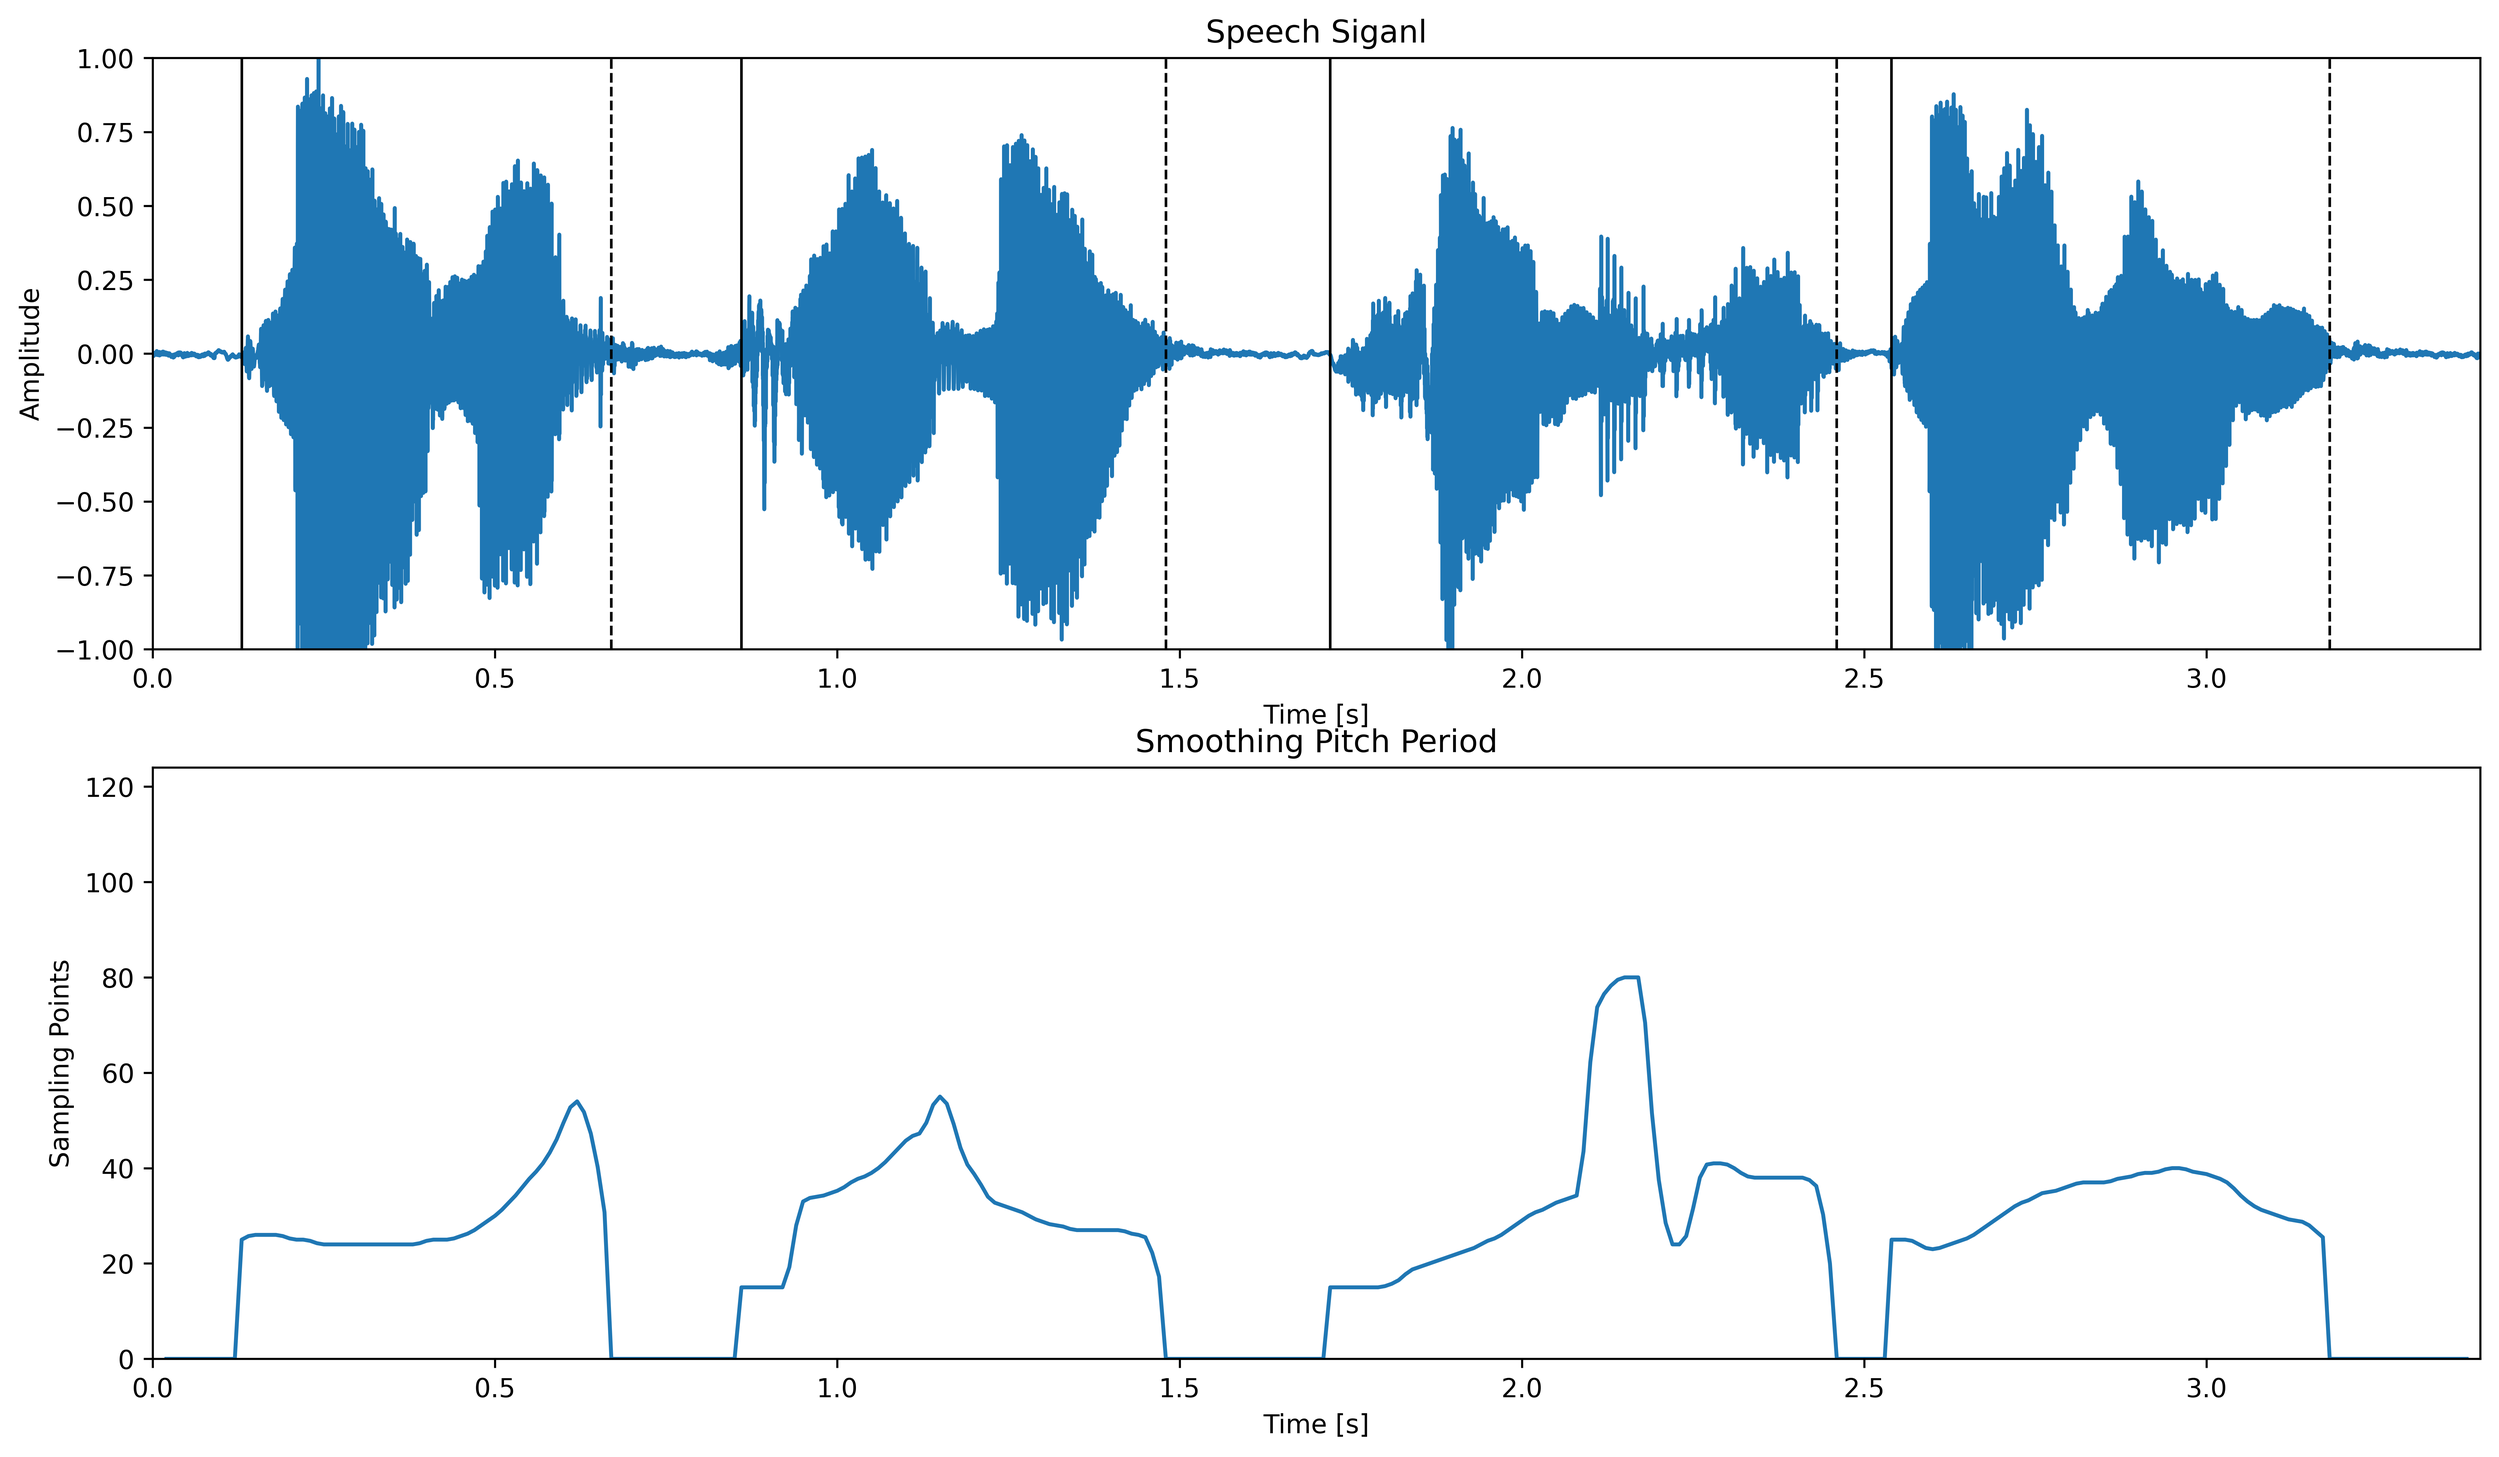
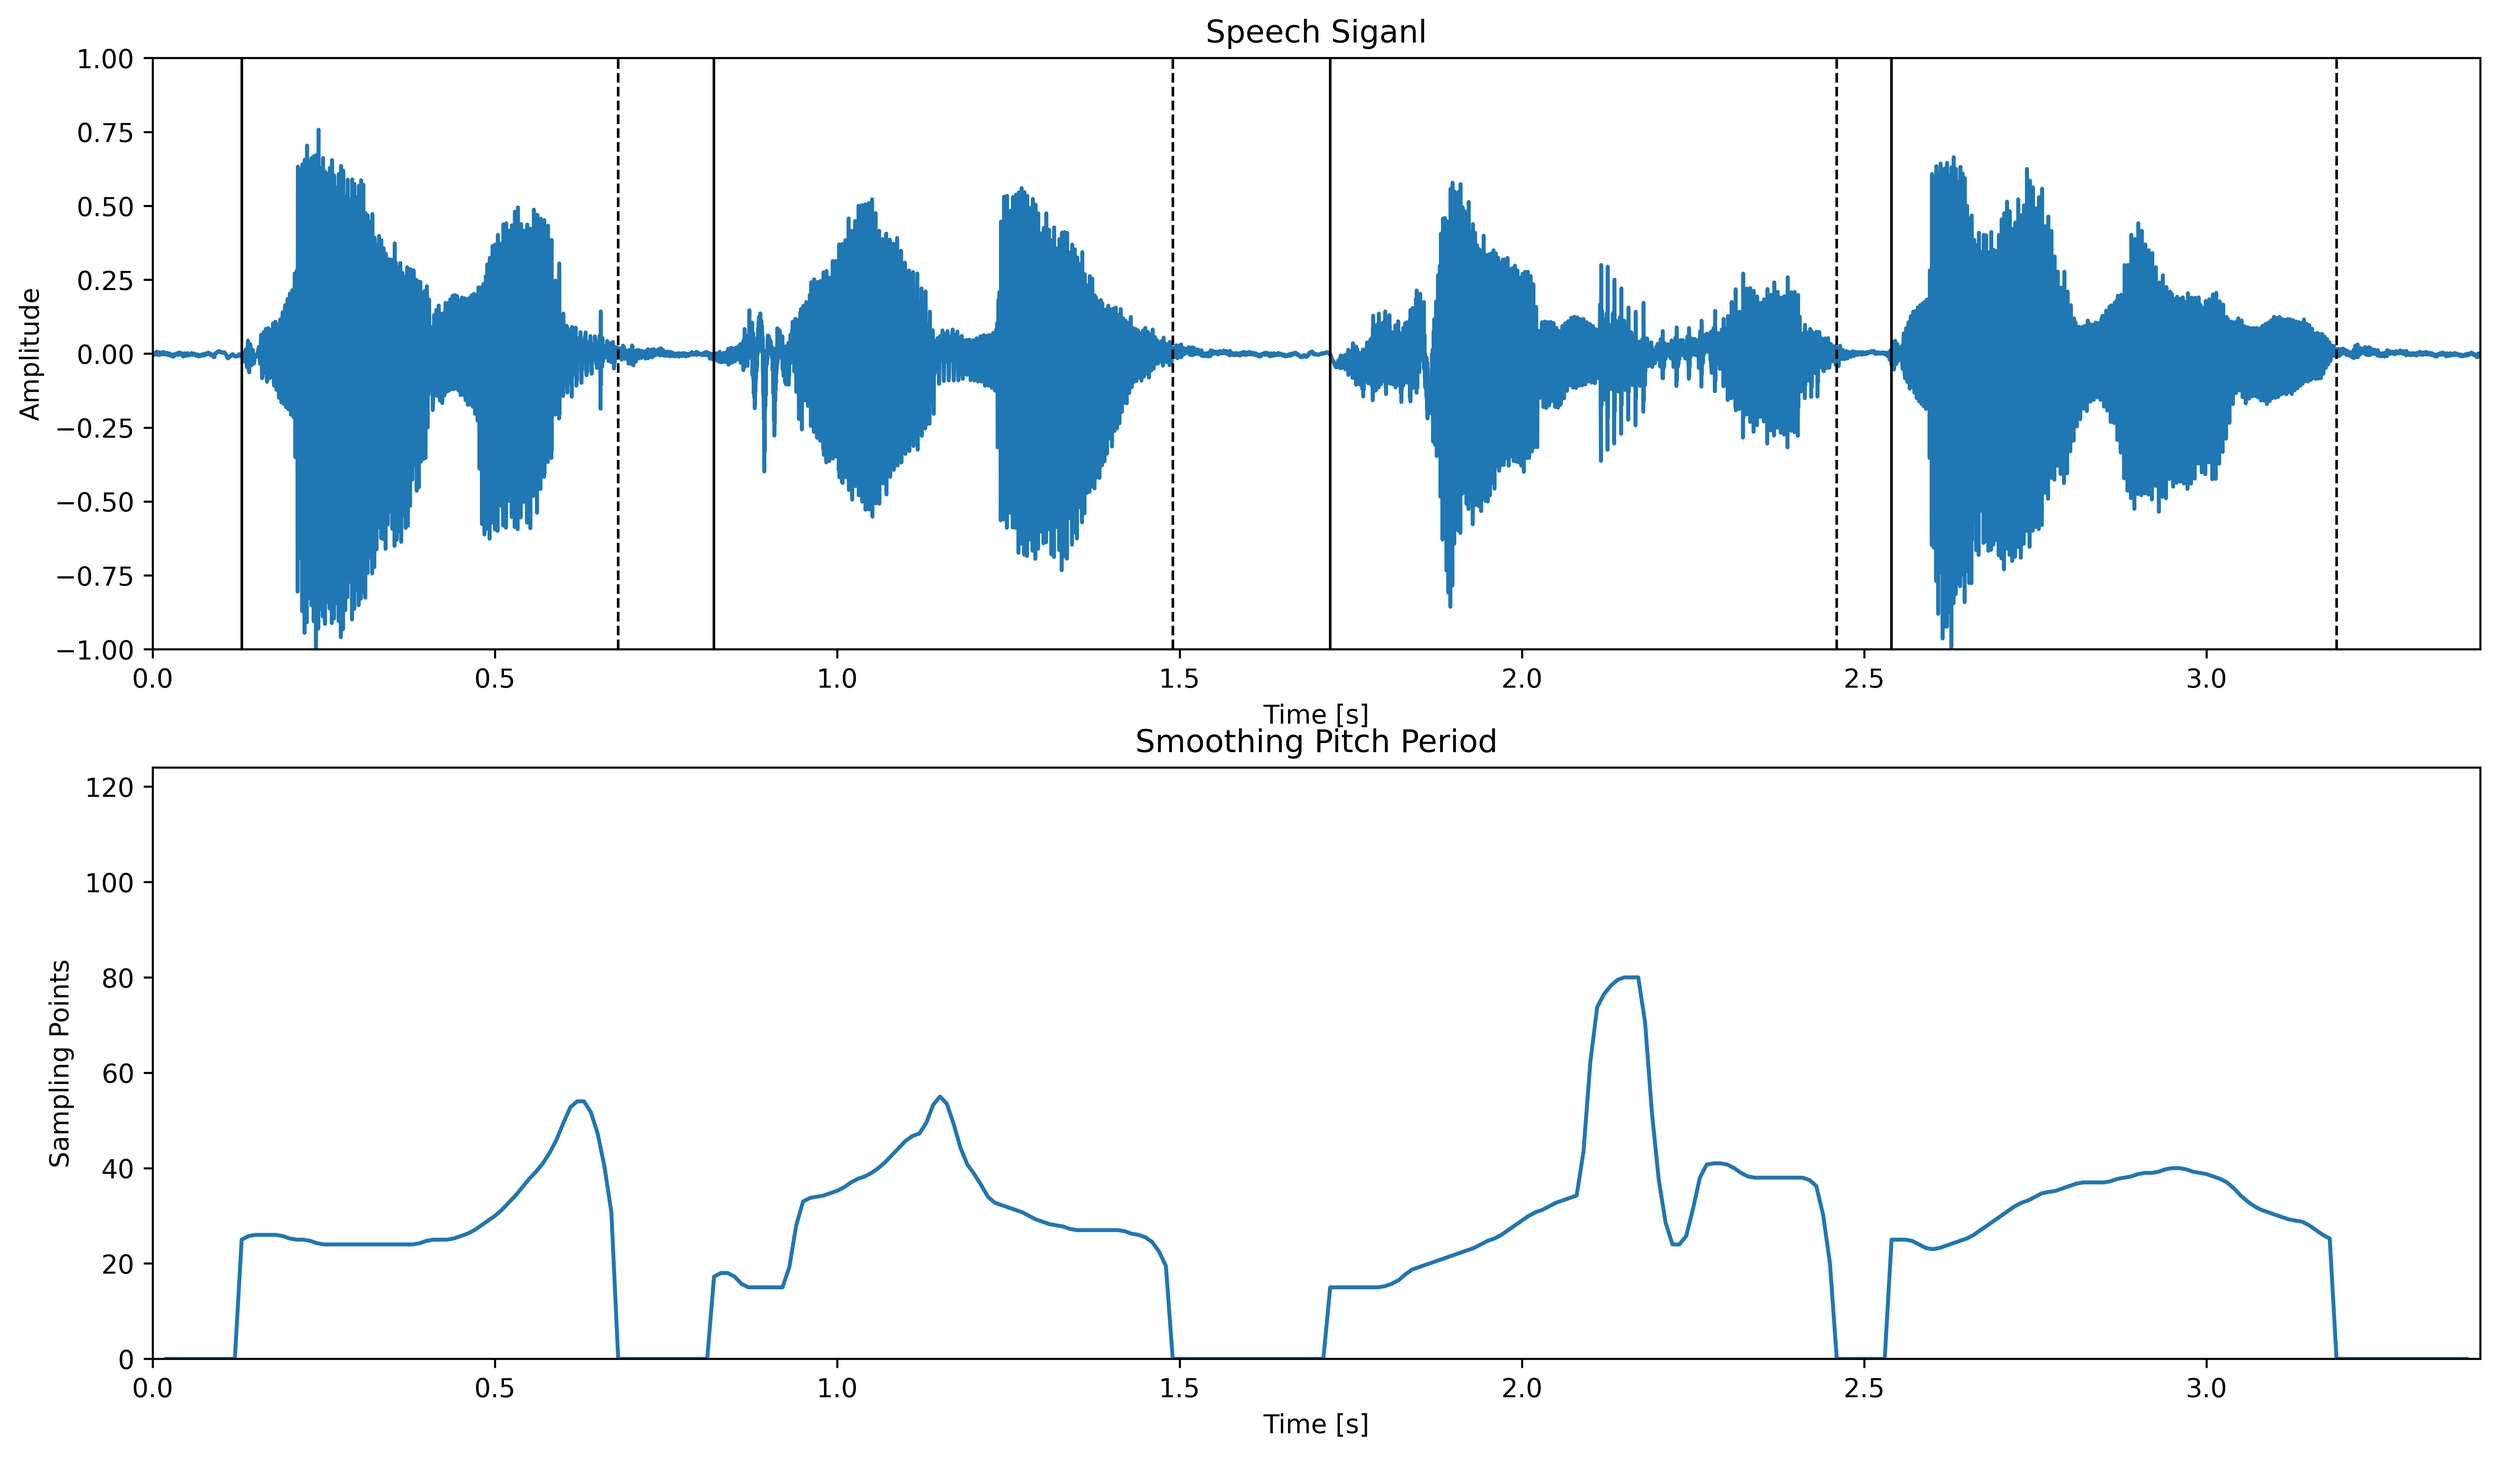
clip auto correlation pitch detection

diff --git a/Chapter8_PitchDetection/pr8_3_2.py b/Chapter8_PitchDetection/pr8_3_2.py
@@ -17,7 +17,7 @@ if __name__ == '__main__':
 	speech = Speech()
 	x, fs = speech.audioread(filename, 8000)
 	x = x - np.mean(x)  # DC
-	x = x / np.max(x)  # normalized
+	x = x / np.max(np.abs(x))  # normalized
 	N = len(x)
 	time = np.arange(N) / fs
 	wnd = np.hamming(wlen)  # window function
@@ -61,5 +61,5 @@ if __name__ == '__main__':
 	plt.ylabel('Sampling Points')
 	plt.title('Smoothing Pitch Period')
 	plt.axis([0, np.max(time), np.min(period), np.max(period)])
-	plt.savefig('images/clip_autocrrelation_pitch_detection.png', bbox_inches='tight', dpi=600)
+	plt.savefig('images/clip_autocorrelation_pitch_detection.png', bbox_inches='tight', dpi=600)
 	plt.show()
